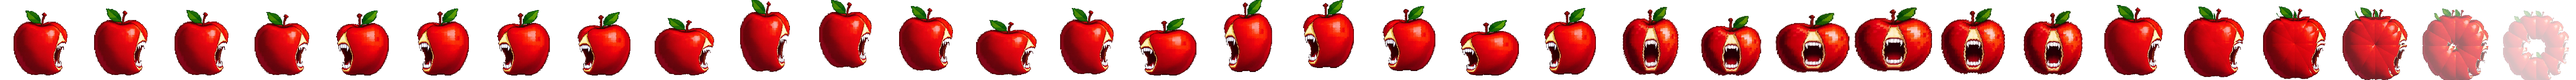
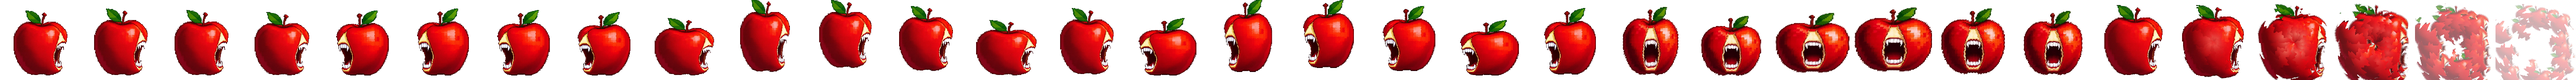
死亡动画重做：撕裂边缘 + 碎块自转 + 爆点闪光 + 方向拖影
原来的 12 瓣均匀放射太像代码生成。改为：
- 碎块边界按半径做正弦抖动 → 切线是锯齿不是直线
- 分界角度不等分（18°~50° 混杂），碎块大小天然不均匀
- 每块独立飞行距离系数 0.6~1.55，打破规整的圆环
- 飞散时自转 0°→26°
- 爆点中心小范围白热（半径 0.34、指数 3，不然整只苹果糊成粉白）
- 沿飞行方向 4 重采样做拖影

Changed region(s): [[0.8438, 0.0625, 1.0, 1.0]]

diff --git a/tools/applemon/explosion.py b/tools/applemon/explosion.py
@@ -1,0 +1,139 @@
+"""
+死亡爆炸的渲染器：比 render() 更像「真炸开」。
+
+三个关键点（纯放射切块太像代码生成的，就是因为缺这些）：
+  1. 不规则碎块 —— 每块的边界不是直射线，而是沿半径起伏的锯齿，
+     碎块大小也故意不均（有的宽有的窄）
+  2. 碎块自转 —— 飞出去的同时按各自方向轻微旋转
+  3. 爆点闪光 —— 炸开瞬间中心有一团白光，2~3 帧内衰减
+"""
+
+import math
+
+# 碎块的分界角度（度），故意不等分：有的 50°、有的 18°
+BOUNDARIES = [-180, -146, -121, -103, -74, -58, -31, -6, 17, 44, 61, 88,
+              112, 141, 158, 180]
+
+
+def wedge_index(deg, boundaries=BOUNDARIES):
+    """角度（度）落在第几块。"""
+    for i in range(len(boundaries) - 1):
+        if boundaries[i] <= deg < boundaries[i + 1]:
+            return i
+    return len(boundaries) - 2
+
+
+def wedge_mid(i, boundaries=BOUNDARIES):
+    a = math.radians((boundaries[i] + boundaries[i + 1]) * 0.5)
+    return math.cos(a), math.sin(a)
+
+
+def torn_angle(dx, dy, seed_a=1.0, seed_b=2.4):
+    """
+    把「点到中心的真实角度」揉一下，让碎块边界变成锯齿状。
+    抖动幅度随半径变化，所以切线是弯的、不是直线。
+    """
+    r = math.hypot(dx, dy)
+    jitter = (0.11 * math.sin(r * 0.085 + seed_a)
+              + 0.055 * math.sin(r * 0.23 + seed_b))
+    return math.degrees(math.atan2(dy, dx)) + math.degrees(jitter)
+
+
+def render_explosion(sample, box, cell_size, content_h, foot,
+                     dist, shrink, rot_deg, alpha, flash, blur,
+                     src_cx, src_cy, kx, ky, cx_out, foot_out):
+    """
+    反向映射渲染一帧爆炸。
+
+    sample / box 等由调用方传入，避免重复实现采样。
+    """
+    cols = cell_size
+    cell = bytearray(cols * cols * 4)
+    nb = len(BOUNDARIES) - 1
+
+    # 每块自己的飞散方向 + 旋转中心（输出坐标）
+    dirs = [wedge_mid(i) for i in range(nb)]
+    # 每块的飞行距离系数：0.72~1.25 不等，避免碎块排成一个规整的圆环
+    dist_k = []
+    for i in range(nb):
+        h = math.sin((i + 1) * 12.9898) * 43758.5453
+        dist_k.append(0.60 + 0.95 * (h - math.floor(h)))
+    pivots = []
+    for i in range(nb):
+        dxw, dyw = dirs[i]
+        r_src = max(box[2] - box[0], box[3] - box[1]) * 0.5
+        pxs = src_cx + dxw * r_src * 0.5
+        pys = src_cy + dyw * r_src * 0.5
+        pivots.append((cx_out + (pxs - src_cx) * kx,
+                       foot_out + (pys - box[3]) * ky))
+
+    cos_r = math.cos(math.radians(rot_deg))
+    sin_r = math.sin(math.radians(rot_deg))
+
+    for oy in range(cols):
+        for ox in range(cols):
+            px, py = float(ox), float(oy)
+
+            # 用未位移的位置判断属于哪块碎片
+            sx_base = (px - cx_out) / kx + src_cx
+            sy_base = (py - foot_out) / ky + box[3]
+            w = wedge_index(torn_angle(sx_base - src_cx, sy_base - src_cy))
+            dxw, dyw = dirs[w]
+
+            # 平移 → 围绕碎块自己的中心反向缩放 → 反向自转
+            d_i = dist * dist_k[w]
+            shx = dxw * d_i
+            shy = dyw * d_i - d_i * 0.10        # 整体略微上飘
+            ccx, ccy = pivots[w]
+
+            vx = (px - shx - ccx) / shrink
+            vy = (py - shy - ccy) / shrink
+            rx = vx * cos_r - vy * sin_r
+            ry = vx * sin_r + vy * cos_r
+
+            px = ccx + rx
+            py = ccy + ry
+
+            # 沿飞行方向做多重采样 = 拖影，碎片飞得快才有「呼啸而过」的感觉
+            taps = 1 if blur < 0.5 else 4
+            ar = ag = ab = aa_sum = 0
+            for t in range(taps):
+                off = 0.0 if taps == 1 else (t / (taps - 1)) * blur
+                bx = px - dxw * off
+                by = py - dyw * off
+                ssx = (bx - cx_out) / kx + src_cx
+                ssy = (by - foot_out) / ky + box[3]
+                sr, sg, sb, sa = sample(ssx, ssy)
+                ar += sr * sa
+                ag += sg * sa
+                ab += sb * sa
+                aa_sum += sa
+            if aa_sum <= 0:
+                continue
+            r = int(ar / aa_sum)
+            g = int(ag / aa_sum)
+            b = int(ab / aa_sum)
+            a = int(aa_sum / taps)
+            if a <= 0:
+                continue
+            sx, sy = (px - cx_out) / kx + src_cx, (py - foot_out) / ky + box[3]
+
+            # 爆点闪光：靠近中心加白热，越远越弱
+            if flash > 0.001:
+                d = math.hypot(sx - src_cx, sy - src_cy)
+                # 半径收到 0.34，指数 3 → 只有爆点中心一小团白热，
+                # 不然整只苹果都会被糊成粉白色，看着像发光而不是爆炸
+                fall = max(0.0, 1.0 - d / (max(box[2] - box[0], box[3] - box[1]) * 0.34))
+                fg = flash * fall ** 3
+                if fg > 0.001:
+                    r = int(r + (255 - r) * fg)
+                    g = int(g + (238 - g) * fg)
+                    b = int(b + (190 - b) * fg)
+
+            aa = int(a * alpha)
+            if aa <= 0:
+                continue
+            i = (oy * cols + ox) * 4
+            cell[i], cell[i + 1], cell[i + 2], cell[i + 3] = r, g, b, aa
+
+    return cell

diff --git a/tools/applemon/make_sheet.py b/tools/applemon/make_sheet.py
@@ -16,6 +16,9 @@
 import os
 import math
 import subprocess
+import sys
+sys.path.insert(0, os.path.dirname(os.path.abspath(__file__)))
+from explosion import render_explosion
 
 FFMPEG = r"C:\Users\leader\.workbuddy-ai\binaries\node\workspace\node_modules\@ffmpeg-installer\win32-x64\ffmpeg.exe"
 D = r"D:\h\my-game\tools\applemon"
@@ -170,15 +173,17 @@ def lunge_frames():
             ("center", 1.00, 1.000, 0, 0, 1.0, 0, 1.0)]
 
 
-def death_frames():
-    # 6 帧。位移不能大：格子只有 160 宽、内容 130 高，飞太远会被格子切掉。
-    # 所以同时让本体逐步缩小，既解释成「炸碎了」，也给碎片腾出空间。
-    return [("right", 1.08, 1.080, 0, 0, 1.00, 0,  1.00),
-            ("right", 1.02, 1.020, 0, 0, 1.00, 6,  0.96),
-            ("right", 0.98, 0.980, 0, 0, 1.00, 12, 0.90),
-            ("right", 0.94, 0.940, 0, 0, 0.90, 18, 0.80),
-            ("right", 0.90, 0.900, 0, 0, 0.60, 24, 0.66),
-            ("right", 0.86, 0.860, 0, 0, 0.25, 28, 0.52)]
+# 死亡 6 帧：(内容缩放, 飞散距离, 碎块缩放, 自转角度, 透明度, 爆点闪光)
+# 缩放逐步变小，是为了给碎片腾出飞散空间——格子只有 160 宽，飞太远会被裁掉。
+DEATH = [
+    # (内容缩放, 飞散距离, 碎块缩放, 自转°, 透明度, 爆点闪光, 拖影长度)
+    (1.08,  0, 1.00,  0, 1.00, 0.00, 0),
+    (1.04,  6, 0.97,  2, 1.00, 0.28, 0),
+    (1.00, 14, 0.90,  6, 1.00, 0.42, 2),
+    (0.96, 22, 0.78, 11, 0.95, 0.20, 4),
+    (0.92, 30, 0.60, 17, 0.62, 0.07, 5),
+    (0.86, 40, 0.46, 26, 0.32, 0.00, 6),
+]
 
 
 frames = []
@@ -186,19 +191,47 @@ frames += breathe_frames("right")   # 0~3
 frames += breathe_frames("left")    # 4~7
 frames += hop_frames("right")       # 8~13
 frames += hop_frames("left")        # 14~19
-frames += lunge_frames()            # 20~27
-frames += death_frames()            # 28~31
-assert len(frames) == FRAMES, len(frames)
+frames += lunge_frames()            # 20~25
+
+assert len(frames) == FRAMES - len(DEATH), (len(frames), len(DEATH))
 
 sheet = bytearray(CELL * FRAMES * CELL * 4)
-for idx, (view, sx, sy, dx, dy, al, ex, sk) in enumerate(frames):
-    cell = render(view, sx, sy, dx, dy, al, ex, sk)
+def put_cell(idx, cell):
     for y in range(CELL):
         dst = (y * CELL * FRAMES + idx * CELL) * 4
         src_off = y * CELL * 4
         sheet[dst:dst + CELL * 4] = cell[src_off:src_off + CELL * 4]
+
+
+for idx, (view, sx, sy, dx, dy, al, ex, sk) in enumerate(frames):
+    cell = render(view, sx, sy, dx, dy, al, ex, sk)
+    put_cell(idx, cell)
     print(f"  帧 {idx:2d}  {view:6s} sx={sx:.2f} sy={sy:.2f} dy={dy:+d} "
           f"alpha={al:.2f} explode={ex:.0f}")
+
+# 死亡段
+base_idx = len(frames)
+for k, (cs, dist, shrink, rot, alpha, flash, blur) in enumerate(DEATH):
+    view = "right"
+    box = BOXES[view]
+    cw = box[2] - box[0] + 1
+    ch = box[3] - box[1] + 1
+    base = CONTENT_H * cs / ch
+    kx = base
+    ky = base
+    src_cx = (box[0] + box[2]) * 0.5
+    src_cy = (box[1] + box[3]) * 0.5
+    src = SOURCES[view]
+
+    def smp(x, y, _src=src, _box=box):
+        return sample(_src, _box, x, y)
+
+    cell = render_explosion(smp, box, CELL, CONTENT_H, FOOT,
+                            dist, shrink, rot, alpha, flash, blur,
+                            src_cx, src_cy, kx, ky, CELL * 0.5, FOOT)
+    put_cell(base_idx + k, cell)
+    print(f"  帧 {base_idx + k:2d}  死亡 cs={cs:.2f} 飞散={dist:2d} "
+          f"碎缩={shrink:.2f} 自转={rot:2d}° α={alpha:.2f} 闪光={flash:.2f}")
 
 raw = os.path.join(D, "sheet.raw")
 open(raw, "wb").write(bytes(sheet))
